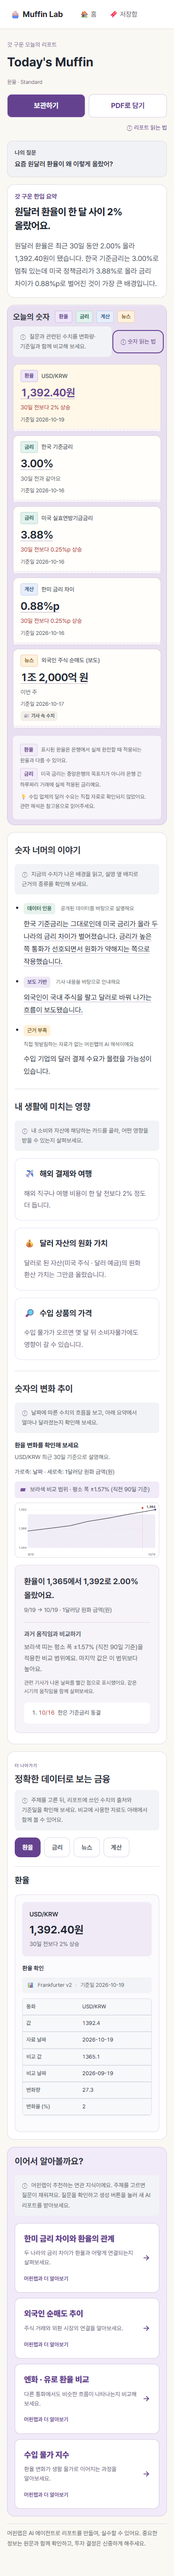
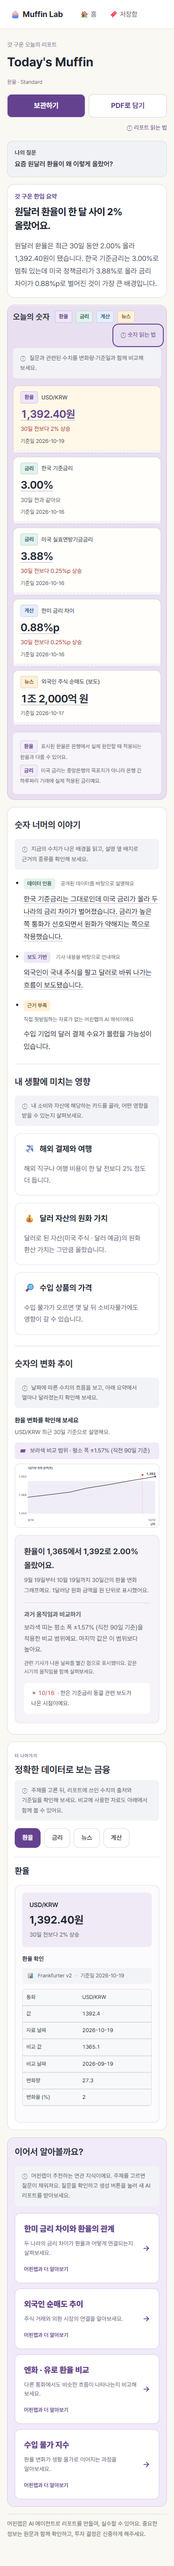
fix: 숫자 안내와 그래프 축 문구 정리

diff --git a/app/components/ReportChart.tsx b/app/components/ReportChart.tsx
@@ -7,11 +7,12 @@ import type { Chart, Evidence } from "@/src/agent/schema";
 
 
 const W = 640;
-const H = 240;
-const PAD = { top: 16, right: 16, bottom: 28, left: 56 };
+const H = 280;
+const PAD = { top: 42, right: 16, bottom: 48, left: 56 };
 
 const day = (t: string) => Date.parse(`${t}T00:00:00Z`) / 86_400_000;
 const fmtDate = (t: string) => `${Number(t.slice(5, 7))}/${Number(t.slice(8, 10))}`;
+const longDate = (t: string) => `${Number(t.slice(5, 7))}월 ${Number(t.slice(8, 10))}일`;
 const fmtValue = (v: number) => v.toLocaleString("ko-KR", { maximumFractionDigits: v >= 1000 ? 0 : 2 });
 
 export function ReportChart({ chart }: { chart: Chart; evidence: Evidence[] }) {
@@ -49,9 +50,9 @@ export function ReportChart({ chart }: { chart: Chart; evidence: Evidence[] }) {
         <span className="chart-subtitle">{chart.title} 기준으로 설명해요.</span>
 
       </figcaption>
-      <p className="chart-axis-guide">가로축: 날짜 · 세로축: {unitLabel}</p>
       {band && <p className="chart-band-key"><span aria-hidden="true">▰</span> 보라색 비교 범위 · {band.label}</p>}
       <svg viewBox={`0 0 ${W} ${H}`} role="img" aria-label={summary} className="chart-svg">
+        <g className="chart-axis-guide"><text x={PAD.left} y={22}>{unitLabel}</text><text x={W - PAD.right} y={H - 10} textAnchor="end">날짜</text></g>
         {band && (
           <g className="chart-band">
             <rect x={sx(band.from)} y={sy(band.high)} width={Math.max(2, sx(band.to) - sx(band.from))} height={Math.max(2, sy(band.low) - sy(band.high))} rx={3} />
@@ -76,26 +77,26 @@ export function ReportChart({ chart }: { chart: Chart; evidence: Evidence[] }) {
           </g>
         ))}
         <g className="chart-axis">
-          <text x={PAD.left} y={H - 8} textAnchor="start">{fmtDate(first.t)}</text>
+          <text x={PAD.left} y={H - 28} textAnchor="start">{fmtDate(first.t)}</text>
           {/* 기간 시작 날짜는 양 끝 라벨과 겹치지 않을 때만 */}
           {band && sx(band.from) - PAD.left > 48 && W - PAD.right - sx(band.from) > 48 && (
-            <text x={sx(band.from)} y={H - 8} textAnchor="middle">{fmtDate(band.from)}</text>
+            <text x={sx(band.from)} y={H - 28} textAnchor="middle">{fmtDate(band.from)}</text>
           )}
-          <text x={W - PAD.right} y={H - 8} textAnchor="end">{fmtDate(last.t)}</text>
+          <text x={W - PAD.right} y={H - 28} textAnchor="end">{fmtDate(last.t)}</text>
         </g>
       </svg>
       <div className="chart-summary">
-        <p><strong>{subject}이 {fmtValue(from.v)}에서 {fmtValue(last.v)}로{change !== null ? ` ${Math.abs(Number(change)).toFixed(2)}% ${Number(change) > 0 ? "올랐어요" : Number(change) < 0 ? "내렸어요" : "변화 없이 유지됐어요"}` : " 바뀌었어요"}.</strong><span className="chart-period">{fmtDate(from.t)} → {fmtDate(last.t)} · {unitLabel}</span></p>
+        <p><strong>{subject}이 {fmtValue(from.v)}에서 {fmtValue(last.v)}로{change !== null ? ` ${Math.abs(Number(change)).toFixed(2)}% ${Number(change) > 0 ? "올랐어요" : Number(change) < 0 ? "내렸어요" : "변화 없이 유지됐어요"}` : " 바뀌었어요"}.</strong><span className="chart-period">{longDate(first.t)}부터 {longDate(last.t)}까지 {Math.round(day(last.t) - day(first.t))}일간의 {subject} 변화 그래프예요. {chart.unit === "KRW per 1 USD" ? "1달러당 원화 금액을 원 단위로 표시했어요." : `${unitLabel} 기준으로 표시했어요.`}</span></p>
         {band && <div className="chart-context"><strong>과거 움직임과 비교하기</strong><p>보라색 띠는 {band.label}을 적용한 비교 범위예요. 마지막 값은 이 범위{last.v > band.high ? "보다 높아요" : last.v < band.low ? "보다 낮아요" : " 안에 있어요"}.</p><small>관련 기사가 나온 날짜를 빨간 점으로 표시했어요. 같은 시기의 움직임을 함께 살펴보세요.</small></div>}
       {events.length > 0 && (
-        <ol className="chart-events">
+        <ul className="chart-events">
           {events.map((e) => (
             <li key={`${e.ref}-${e.at}`}>
-              <span className="chart-event-date">{fmtDate(e.at)}</span> {e.label}
+              <span aria-hidden="true">＊ </span><span className="chart-event-date">{fmtDate(e.at)}</span> · {e.label} 관련 보도가 나온 시점이에요.
 
             </li>
           ))}
-        </ol>
+        </ul>
       )}
 
       </div>

diff --git a/app/components/ReportView.tsx b/app/components/ReportView.tsx
@@ -51,7 +51,7 @@ export function ReportView({ report, area, question, headline, impactTitles = []
       </section>
 
       <section className={styles.metrics}>
-        <div className="metrics-heading"><h2>오늘의 숫자</h2>{groups.map(group => <span className="category-chip mini" data-category={group} key={group}>{group}</span>)}</div><div className="metrics-guide"><p className="section-guide">질문과 관련된 수치를 변화량·기준일과 함께 비교해 보세요.</p><ReportHelp numbers /></div>
+        <div className="metrics-heading"><h2>오늘의 숫자</h2>{groups.map(group => <span className="category-chip mini" data-category={group} key={group}>{group}</span>)}<div className="numbers-help"><ReportHelp numbers /></div></div><div className="metrics-guide"><p className="section-guide">질문과 관련된 수치를 변화량·기준일과 함께 비교해 보세요.</p></div>
         <div className="numbers">
           {report.numbers.map((n, i) => {
             const check = report.verification.status === "skipped" ? "unverified" : n.check;
@@ -59,10 +59,9 @@ export function ReportView({ report, area, question, headline, impactTitles = []
               <div className="num" key={i}>
                 <div className="metric-label"><span className="category-chip" data-category={category(n.ref)}>{category(n.ref)}</span><small>{n.label}</small></div>
                 <EvidenceReference evidenceId={n.ref} evidence={report.evidence} label={`${n.label} ${n.value}의 원본 데이터 보기`}><b>{n.value}</b></EvidenceReference>
-                {n.change && <i className={reportChange(n.change).direction}>{reportChange(n.change).text}</i>}
+                {n.change && !/^이번\s*주$/.test(n.change.trim()) && <i className={reportChange(n.change).direction}>{reportChange(n.change).text}</i>}
                 <div className={styles.metricMeta}>
                   <span className={styles.metricDate}>{n.asOf ? `기준일 ${n.asOf}` : "자료 날짜 미제공"}</span>
-                  {check === "reported" && <span className="report-badge check-reported">📰 기사 속 수치</span>}
                   {check === "unverified" && <span className="report-badge check-unverified">원문 미대조</span>}
                 </div>
               </div>

diff --git a/app/preview/report/PreviewReport.tsx b/app/preview/report/PreviewReport.tsx
@@ -22,7 +22,7 @@ export function PreviewReport() {
   const sample = samples[area];
   const report = reportSchema.parse(fixture.report);
   report.caveats = ["표시된 환율은 은행에서 실제 환전할 때 적용되는 환율과 다를 수 있어요.", "미국 금리는 중앙은행의 목표치가 아니라 은행 간 하루짜리 거래에 실제 적용된 금리예요."];
-  report.dataGaps = ["수입 업체의 달러 수요는 직접 자료로 확인되지 않았어요."];
+  report.dataGaps = [];
   if (area !== "fx") {
     const item = samples[area];
     report.summary = item.summary;

diff --git a/app/components/ReportView.module.css b/app/components/ReportView.module.css
@@ -317,3 +317,7 @@
 .report :global(.section-guide)::before { content:"ⓘ"; margin-right:8px; color:#756286; }
 .report :global(.metrics-guide .section-guide) { flex:1; }
 .report :global(.source-panel-heading) { margin-bottom:16px; }
+
+.report :global(.numbers-help) { margin-left:auto; }
+.report :global(.chart-axis-guide) text { fill:#454b57; font-size:13px; font-weight:600; }
+.report :global(.chart-events) { list-style:none; padding:12px 16px; }

diff --git a/docs/report-reading-handoff.md b/docs/report-reading-handoff.md
@@ -79,3 +79,11 @@
 - 자료 주제마다 반복하던 일반 안내와 개발 시안의 비교 기간 안내를 제거해, 해설과 실제 데이터가 바로 이어지게 했습니다.
 
 - 자료 주제가 하나뿐이면 선택 칩을 표시하지 않고 자료를 바로 보여줍니다. 2개 이상일 때만 선택 칩과 주제 선택 안내가 나타납니다.
+
+
+## 숫자·그래프 최종 문구 정리
+
+- 숫자 읽는 법은 오늘의 숫자 제목 줄 우측에 배치합니다. 설명 박스와 분리했습니다.
+- 숫자 카드에서 단독 ‘이번 주’ 및 중복 ‘기사 속 수치’ 배지를 제거했습니다. 뉴스 카테고리와 원본 자료의 기간 정보는 유지합니다.
+- 개발 환율 시안의 수입업체 dataGaps 안내를 제거했습니다. 실제 서버에서 제공한 자료 부족 안내를 전부 숨기는 변경은 아닙니다.
+- 그래프 내부에 단위/날짜 축 라벨을 넣고, 아래 기간은 월·일·일수 문장으로 표시합니다. 기사 목록의 번호는 없앴으며, 이벤트 날짜는 보도 날짜이므로 ‘관련 보도가 나온 시점’으로 표시합니다.
